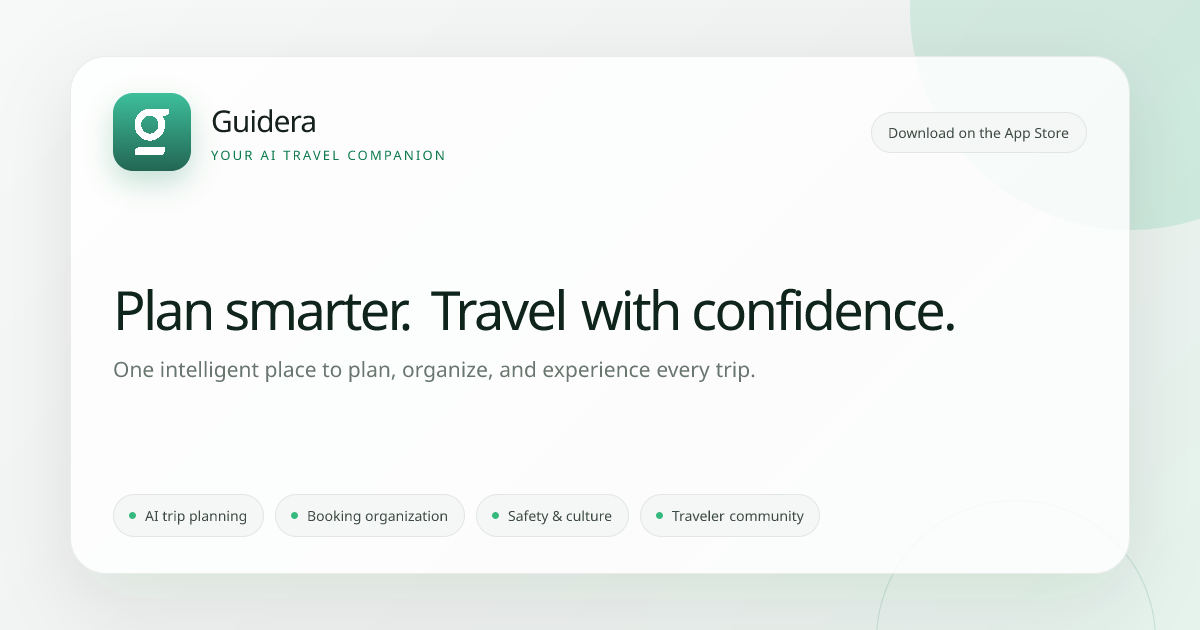
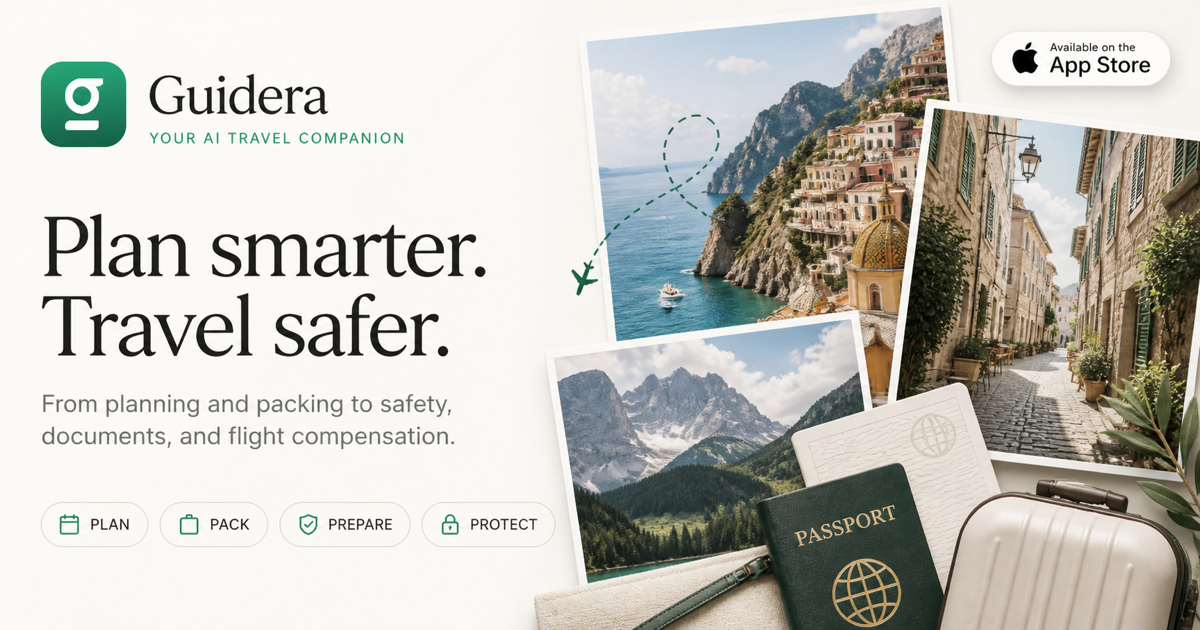
Refresh Guidera social share preview

diff --git a/src/app/layout.tsx b/src/app/layout.tsx
@@ -9,10 +9,10 @@ import { IUBENDA } from "@/lib/iubenda"
 export const metadata: Metadata = {
   metadataBase: new URL("https://guidera.one"),
   title: {
-    default: "Guidera — Your AI Travel Companion",
+    default: "Guidera — Plan Smarter. Travel Safer.",
     template: "%s | Guidera",
   },
-  description: "Plan smarter and travel with more context. Build personalized itineraries, organize bookings, get safety and cultural guidance, and connect with travelers in one iOS app.",
+  description: "Plan trips around your preferences, pack with confidence, prepare travel documents, understand local do's and don'ts, stay safety-aware, and track flight compensation in one iOS app.",
   keywords: [
     "AI travel app",
     "AI trip planner",
@@ -23,6 +23,8 @@ export const metadata: Metadata = {
     "travel safety information",
     "cultural travel guide",
     "packing list app",
+    "travel document planner",
+    "flight compensation tracker",
     "travel community",
     "AI travel assistant",
     "trip planning app",
@@ -48,21 +50,21 @@ export const metadata: Metadata = {
     locale: "en_US",
     url: "https://guidera.one",
     siteName: "Guidera",
-    title: "Guidera — Your AI Travel Companion",
-    description: "Personalized trip planning, organized bookings, safety and cultural guidance, and traveler community in one iOS app.",
+    title: "Guidera — Plan Smarter. Travel Safer.",
+    description: "Personalized planning, smarter packing, document preparation, local guidance, travel safety, and flight compensation tracking in one iOS app.",
     images: [
       {
         url: "/og-image.png",
         width: 1200,
         height: 630,
-        alt: "Guidera, your AI travel companion for planning, organizing, and exploring",
+        alt: "Guidera helps travelers plan, pack, prepare documents, stay safety-aware, and track flight compensation",
       },
     ],
   },
   twitter: {
     card: "summary_large_image",
-    title: "Guidera — Your AI Travel Companion",
-    description: "Plan smarter with personalized itineraries, organized bookings, safety and cultural guidance, and traveler community.",
+    title: "Guidera — Plan Smarter. Travel Safer.",
+    description: "Plan around your preferences, pack and prepare, get local safety guidance, and track flight compensation.",
     images: ["/og-image.png"],
     creator: "@guideraapp",
   },
